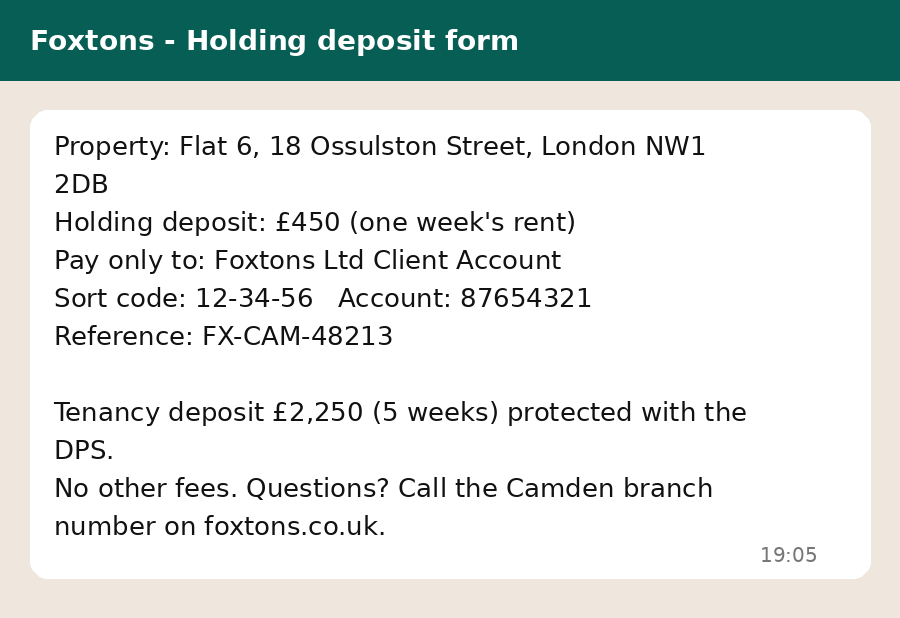
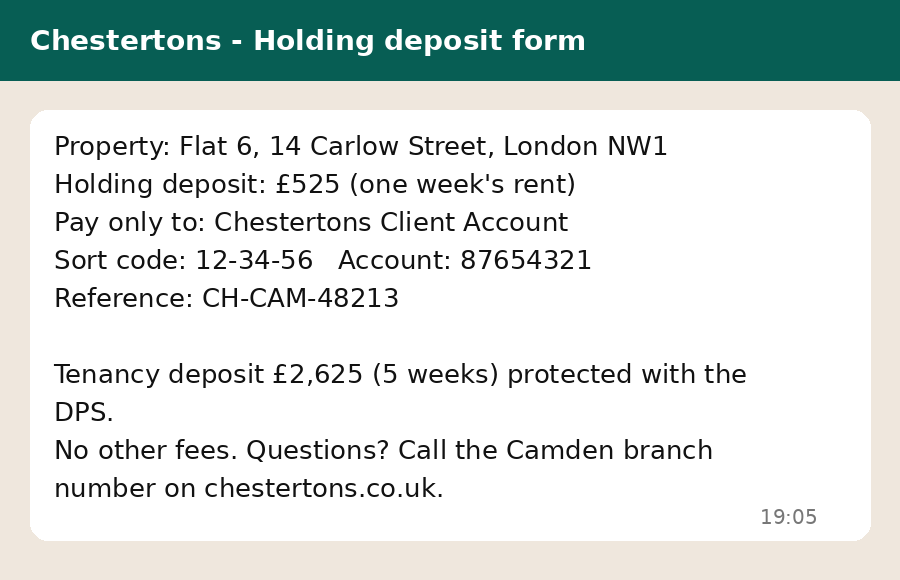
demo: cases built on real listings, synthetic people

diff --git a/fixtures/demo/README.md b/fixtures/demo/README.md
@@ -1,78 +1,58 @@
-# Demo cases (synthetic)
+# Demo cases (synthetic people, real listings)
 
-All people, accounts and messages here are invented for the demo. Bank details are fake.
-Phone numbers are left out. Student in every chat: **Audrey Leo** (audrey17leo@gmail.com). Type "Audrey" at onboarding so the app knows which side is you).
+Each case starts from a **real, live Rightmove listing** (checked Sun 15 Nov, 10:45). Paste the link and the listing reader fills the form.
+Everyone in the chats, emails and contracts is invented (except the student, Audrey Leo, audrey17leo@gmail.com). Bank details are fake.
+**No real agent is accused of anything:** in red, a stranger copies a real listing; in yellow, a stranger claiming to be the owner goes around the real agent; in green, the agent behaves properly.
 
-Order to upload in each case: listing form, then WhatsApp .txt, then email (paste), then contract PDF, then screenshot.
+At onboarding type **Audrey**. Upload order: link, WhatsApp .txt, email (paste), contract PDF, screenshot.
 
 ---
 
-## 1. Red: classic overseas-landlord scam
+## 1. Red: cloned listing scam
 
-**Form**
+**Link:** https://www.rightmove.co.uk/properties/89251659
+Real listing: Kingston House South, Ennismore Gardens, South Kensington SW7 · 2 bed · £8,645 pcm · deposit £9,975 · Relo Redac Strattons.
 
-| Field | Value |
-| --- | --- |
-| Address | Flat 4, 14 Cromwell Road, London SW7 2RL |
-| Area | Kensington |
-| Rent | £950 pcm |
-| Deposit | £1,900 |
-| Landlord | David Harrington |
-| Agency | Kensington Crest Lettings Ltd (no company number given) |
-| Platform | Facebook Marketplace |
+**Story:** "David Harrington" copied it to Facebook Marketplace for **£950**, says he's the owner working in Dubai, can't show it, keys by DHL after payment.
 
 **Files:** `WhatsApp Chat with David Harrington.txt`, `email_from_agent.txt`, `tenancy_agreement.pdf`, `payment_details_screenshot.png`
 
-**Built-in red flags:** no viewing, keys by DHL after payment, rent far below area, pay to a personal name that isn't the landlord or agency, bank details changed mid-chat, fake "secure payment" link, passport + selfie request, 24-hour deadline and guilt pressure, gmail address for a "Ltd", agency not on Companies House, contract says **Flat 2** (listing says Flat 4), deposit 2 months (over the 5-week cap), non-refundable clause, landlord can change the account by message.
+**Red flags:** price 89% below the real listing, different agent name (Kensington Crest Lettings Ltd, gmail, not on Companies House), no viewing, pay to a personal name, bank details changed, fake secure-payment link, passport + selfie, 24-hour deadline and guilt, contract says Flat 2 (chat says Flat 4), deposit 2 months, non-refundable clause.
 
-**Say on the call:** "He says he's a doctor in Dubai so he can't show me. I asked for a video call and he said his hospital doesn't allow it. He wants £2,850 today and now he's sent new bank details for a company called Global Property Holdings. I haven't paid yet."
+**Say on the call:** "He says he's a doctor in Dubai so he can't show me. The same flat is on Rightmove for over eight thousand a month. He wants £2,850 today and now he's sent new bank details for Global Property Holdings. I haven't paid."
 
-**Expected:** `likely_scam`, red, Stop before you pay.
+**Expected:** `likely_scam`, red.
 
 ---
 
-## 2. Yellow: real private landlord, but unsafe terms
+## 2. Yellow: "owner" going around the agent
 
-**Form**
+**Link:** https://www.rightmove.co.uk/properties/88750473
+Real listing: Whitechapel High Street, London E1 · 1 bed · £2,800 pcm · Letly.
 
-| Field | Value |
-| --- | --- |
-| Address | Flat 3, 79 Whitechapel High Street, London E1 7QX |
-| Area | Whitechapel |
-| Rent | £1,300 pcm |
-| Deposit | £1,800 |
-| Landlord | Thomas Hughes (private, no agency) |
-| Platform | SpareRoom |
+**Story:** "Tom Hughes" says he's the owner and offers **£2,300** direct if she skips the agent. Video tour done, in-person viewing offered on Sat 21st. Names match across chat, contract and bank account.
 
 **Files:** `WhatsApp Chat with Tom Hughes.txt`, `email_from_landlord.txt`, `tenancy_agreement.pdf`, `holding_deposit_request_screenshot.png`
 
-**Built-in issues (not a scam):** wants a £300 holding deposit before the in-person viewing (video tour only so far), £150 admin fee (banned by the Tenant Fees Act), deposit 6 weeks (£1,800, cap is 5 weeks = £1,500), deposit not protected in a scheme, tenant pays repairs under £200. Good signs: names match across chat, contract and account; real address given; offers in-person viewing; rent fair.
+**Issues:** ownership not proven (going around the listed agent), £500 holding deposit before the in-person viewing, £150 admin fee (banned), deposit 6 weeks (£3,185, cap is 5 weeks), no protection scheme, tenant pays repairs under £200.
 
-**Say on the call:** "I did a video tour and it matched the photos. He's back in London on the 21st and I can view in person then. He said he can put the deposit in a scheme if I ask. He wants the £300 by tomorrow."
+**Say on the call:** "I did a video tour and it matched the photos. He'll show me in person on the 21st. He says he owns it and Letly only advertise it. He wants £500 by tomorrow to hold it."
 
-**Expected:** `not_verified` or `proceed_with_care`, amber. Advice: view in person before paying anything, refuse the admin fee, deposit max £1,500 and protected, check the owner on the Land Registry.
+**Expected:** amber, `not_verified` or `proceed_with_care`. Advice: view first, check the owner on the Land Registry or ask Letly, no admin fee, deposit max 5 weeks and protected. (Could tip to red because of the off-agent discount: that is a defensible result too.)
 
 ---
 
-## 3. Green: looks a bit suspicious, actually safe
+## 3. Green: looks a bit off, actually safe
 
-**Form**
+**Link:** https://www.rightmove.co.uk/properties/94073190
+Real listing: Carlow Street, Camden NW1 · studio · £2,275 pcm · deposit £2,625 · Chestertons, Camden & Primrose Hill.
 
-| Field | Value |
-| --- | --- |
-| Address | Flat 6, 18 Ossulston Street, London NW1 2DB |
-| Area | Camden |
-| Rent | £1,950 pcm |
-| Deposit | £2,250 |
-| Landlord | Wei Lin (overseas, managed by agent) |
-| Agency | Foxtons Limited, company number 01680058 |
-| Platform | Rightmove |
+**Story:** "Sophie Bennett" from the branch. Landlord lives in Singapore, "two other applications", money before signing.
 
-**Files:** `WhatsApp Chat with Sophie Bennett - Foxtons.txt`, `email_from_agent.txt`, `tenancy_agreement_draft.pdf`, `holding_deposit_form_screenshot.png`
+**Files:** `WhatsApp Chat with Sophie Bennett - Chestertons.txt`, `email_from_agent.txt`, `tenancy_agreement_draft.pdf`, `holding_deposit_form_screenshot.png`
 
-**Looks suspicious because:** landlord lives abroad, rent below nearby flats, "two other applications, apply soon", money asked before signing, bank transfer.
-**Actually safe because:** in-person viewing done with the agent, real registered agency (Companies House), email from the agency domain, pay only to the agency client account (not a person), holding deposit = 1 week (£450, legal cap), deposit = 5 weeks (£2,250) protected with the DPS, no fees, agent warns against paying anyone else, Right to Rent checked in person with a gov.uk share code, everything matches across chat, email, contract and form.
+**Safe because:** in-person viewing done, same agent as the listing (registered company), agency email domain, pay only to the agency client account, holding £525 = 1 week (legal cap), deposit £2,625 = 5 weeks and matches the listing, DPS protection, no fees, Right to Rent checked in person, everything matches across listing, chat, email and contract.
 
-**Say on the call:** "I viewed the flat in person on Wednesday with Sophie from Foxtons. The landlord lives in Singapore, that's why it's cheaper. The holding deposit goes to the Foxtons client account and the deposit is protected with the DPS. I haven't paid yet."
+**Say on the call:** "I viewed it in person on Wednesday with Sophie from Chestertons. The landlord lives in Singapore. The holding deposit goes to the Chestertons client account and the deposit is protected with the DPS. I haven't paid yet."
 
-**Expected:** after answering the questions, `no_red_flags_remaining` or `proceed_with_care`, green. Needs the E8 fix merged (established agency reputation), otherwise review noise can make Foxtons read as suspicious.
+**Expected:** green after answering, `no_red_flags_remaining` or `proceed_with_care`. Relies on the E6 and E8 fixes (now on main).
